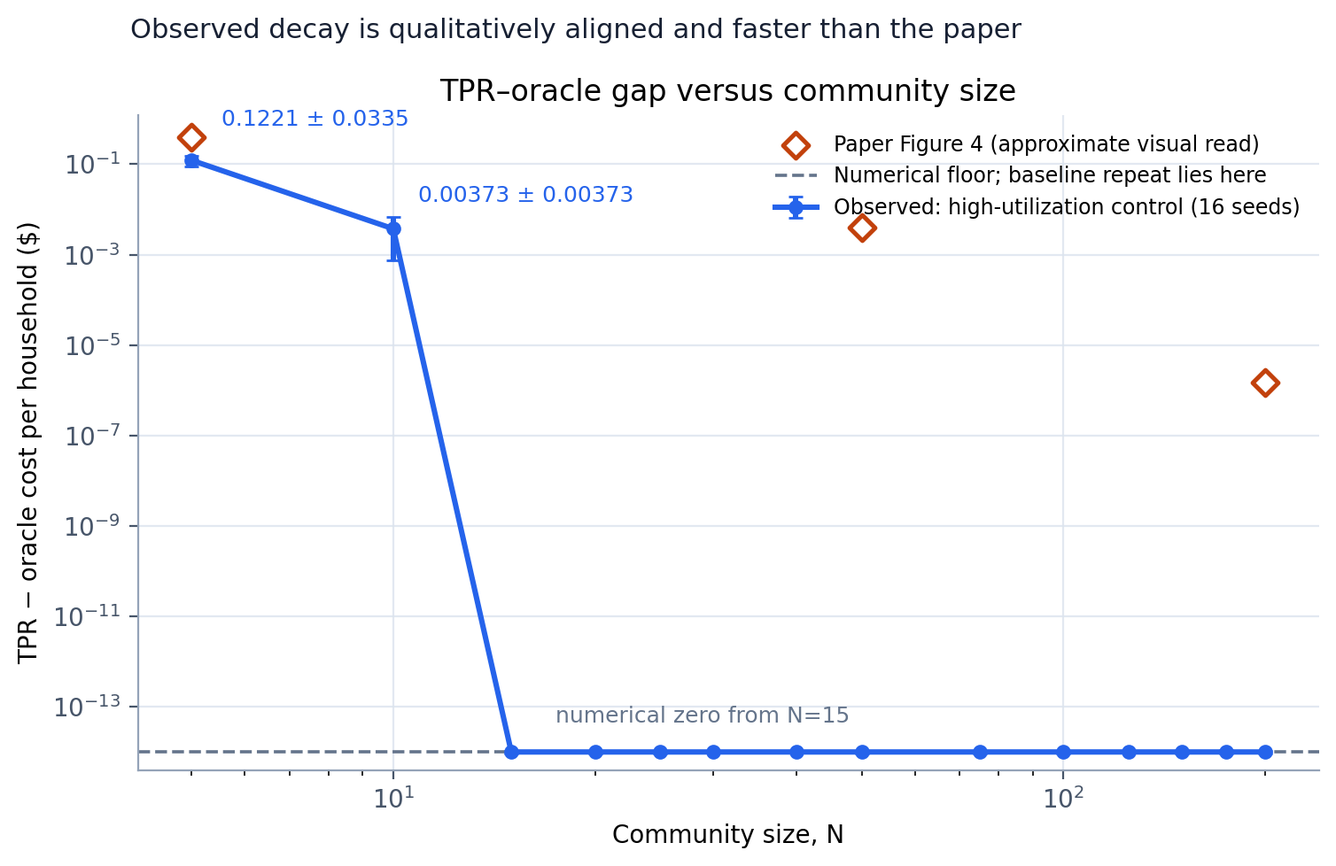
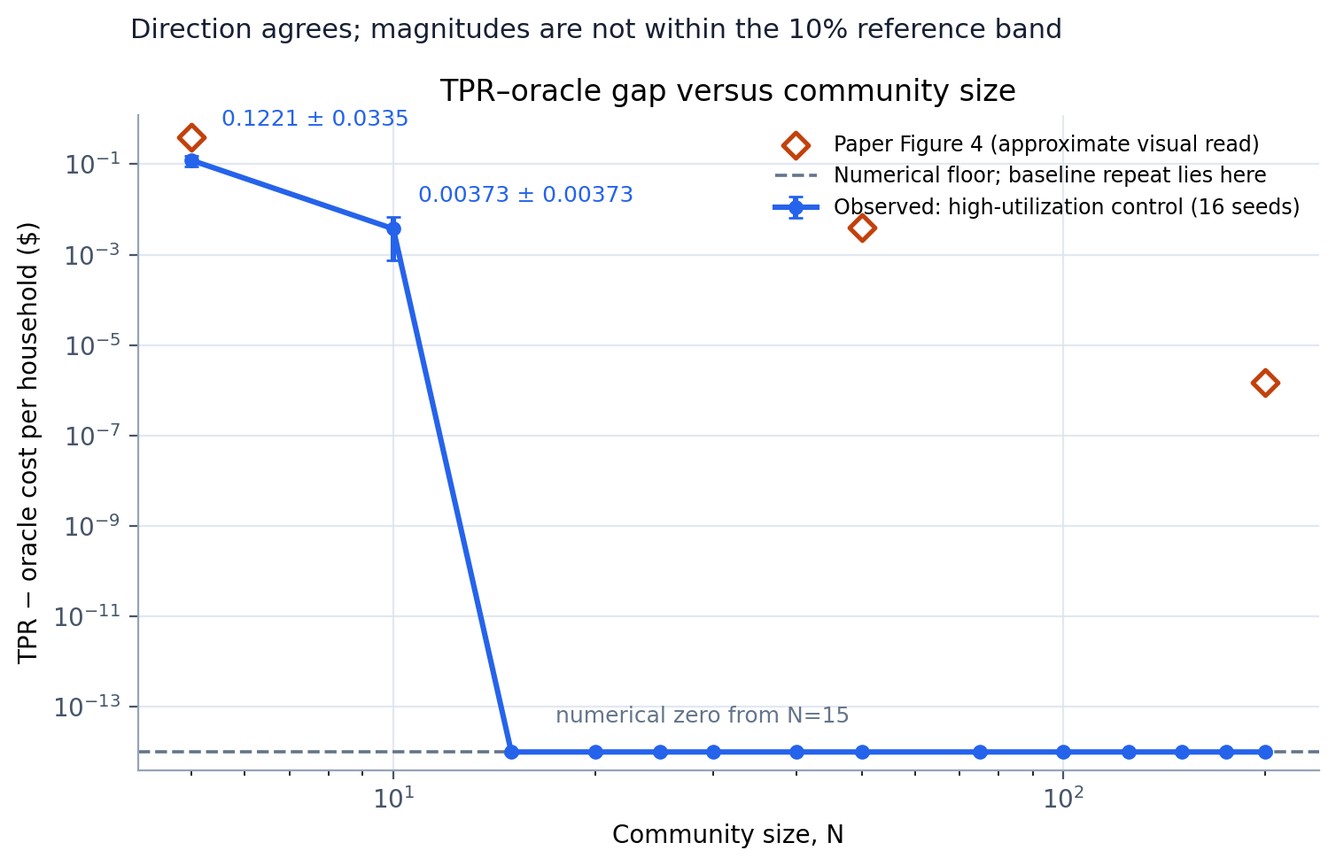
Apply unified reproduction grading rubric

Changed region(s): [[0.0935, 0.0, 0.8103, 0.0613]]

diff --git a/notebooks/tpr_figure4_tutorial.py b/notebooks/tpr_figure4_tutorial.py
@@ -17,12 +17,14 @@ def _(mo):
     mo.md(r"""
     # TPR approaches a perfect-information scheduler as the community grows
 
-    **Reproduction result.** A high-utilization sensitivity control measured a
+    **Unified verdict: C — partial reproduction success, medium confidence.** A high-utilization sensitivity control measured a
     TPR–oracle gap of **$0.1221 ± $0.0335 per household at $N=5$**, **$0.00373 ±
     $0.00373 at $N=10$**, and numerical zero from **$N=15$**. This is
-    qualitatively aligned with Figure 4 of
-    [arXiv:2607.15570](https://www.alphaxiv.org/abs/2607.15570), although the
-    decay is faster under the synthetic EV-demand substitution.
+    decreasing direction consistent with Figure 4 of
+    [arXiv:2607.15570](https://www.alphaxiv.org/abs/2607.15570). However, approximate
+    relative differences from the paper are 69.5% at $N=5$, 98.1% at $N=10$,
+    and nearly 100% at $N=200$, outside the provisional 10% criterion. Only two
+    sizes have nonzero means, so the reported exponential rate is not verified.
 
     This notebook embeds the completed-run summaries. It does **not** rerun the
     remote optimization.
@@ -145,10 +147,10 @@ def _(mo):
 
     | Claim | Assessment | Evidence |
     |---|---|---|
-    | TPR gap shrinks rapidly with community size | **Partially aligned** | Measurable at $N=5$ and $10$; numerical zero from $N=15$ |
+    | TPR gap decreases with community size | **Direction supported only** | Measurable at $N=5$ and $10$; numerical zero from $N=15$ |
     | Revenue adequacy | **Aligned under this setup** | Worst margin $-2.84\times10^{-14}$, within $10^{-10}$ tolerance |
     | Individual rationality | **Aligned under this setup** | Worst saving $-1.42\times10^{-14}$, within tolerance |
-    | Paper's exact exponential rate | **Inconclusive under this setup** | ACN preprocessing and raw Figure 4 values are unavailable |
+    | Paper's magnitudes and exponential rate | **Not verified** | Values differ by far more than 10%; ACN preprocessing and raw Figure 4 values are unavailable |
 
     The formal runs used a 24-hour, 15-minute horizon, 7.2 kW chargers, a
     six-hour maximum charging window, lognormal renewable generation with mean

diff --git a/reports/tpr-figure4/make_figures.py b/reports/tpr-figure4/make_figures.py
@@ -66,7 +66,7 @@ def headline(baseline: list[dict[str, float]], stress: list[dict[str, float]]) -
     ax.set_ylim(4e-15, 1.2)
     ax.legend(frameon=False, fontsize=8.5, loc="upper right")
     style_axis(ax)
-    fig.suptitle("Observed decay is qualitatively aligned and faster than the paper",
+    fig.suptitle("Direction agrees; magnitudes are not within the 10% reference band",
                  x=0.12, ha="left", fontsize=11, color=INK, y=0.995)
     finish(fig, "headline-gap-comparison.png")
 

diff --git a/reports/tpr-figure4/report.md b/reports/tpr-figure4/report.md
@@ -1,113 +1,149 @@
-# When Does Simple Pricing Match a Perfect-Information Scheduler?
+# TPR 分布式调度论文复现：统一判定报告
 
-![Observed TPR–oracle gap compared with approximate visual reads from the paper](images/headline-gap-comparison.png)
+![论文 Figure 4 与本次运行结果的比较](images/headline-gap-comparison.png)
 
-The central question in [arXiv:2607.15570](https://www.alphaxiv.org/abs/2607.15570) is whether a coordinator can schedule flexible household demand with a simple broadcast price while retaining the performance of a centralized scheduler. The paper's Figure 4 reports that the per-household cost gap between its Threshold Pricing Rule (TPR) and a perfect-information oracle decays approximately exponentially as the community grows.
+**最终等级：C — 部分复现成功。结论可信度：中。**
 
-**Assessment: partially aligned.** In the paper-faithful disclosed-parameter setup with synthetic EV demand, TPR and the oracle were already equal to numerical precision for every tested size. A deliberately harder high-utilization control produced a measurable gap of **$0.1221 ± $0.0335 per household at N=5**, **$0.00373 ± $0.00373 at N=10**, and numerical zero from **N=15** onward. The direction and rapid decay align with Figure 4, but the observed decay is faster and cannot establish the paper's quantitative rate because ACN demand preprocessing and plotted values were unavailable.
+本次确实在用户指定的 `root@ssh3.vast.ai:15694` 上执行了提交后的实验代码，并由运行日志产生结果；但“代码运行成功”不等于“论文完整复现成功”。[论文 2607.15570](https://www.alphaxiv.org/abs/2607.15570) 的 Figure 4 方向在一个合成高负载控制中得到部分支持，但数值与论文相差远超 10%，指数衰减率无法验证，LLF/MPC 和 Figure 5 也没有运行。因此不能判为 A 或 B。
 
-## The claim and the scheduling idea
+## 1. 本次实际复现了什么？
 
-Each household has renewable generation and deadline-constrained EV demand. The coordinator sees only aggregate conditions and broadcasts one of three price signals:
+实际运行的是一个独立实现的 Figure 4 子问题：比较在线 Threshold Pricing Rule（TPR）与知道全部未来随机量的开环 Oracle 线性规划，并计算
 
-```text
-aggregate renewable below mandatory charging  → import price π+ → charge only what deadlines require
-aggregate renewable above charging capacity   → export price π− → charge as much as possible
-aggregate renewable between the thresholds    → NEM price       → absorb renewable locally
-```
+$$
+\frac{\mathrm{cost}_{\mathrm{TPR}}-\mathrm{cost}_{\mathrm{Oracle}}}{N}.
+$$
 
-The first two zones have closed-form actions. Only the middle, net-zero zone can separate the online TPR schedule from a scheduler that knows the future. As the number of independent households grows, aggregate uncertainty concentrates and this difficult zone should become less consequential.
+每个随机实例均由本次代码现场生成，TPR 和 Oracle 均在本次运行中求解；报告中的复现数值来自远程运行生成的 CSV 和日志，而不是从论文或 README 复制，也不是把论文公式直接代入得到。
 
-The paper's empirical evidence contains three main groups of claims:
-
-| Paper evidence | Reported result | Reproduction scope |
-|---|---:|---|
-| Figure 4, TPR vs oracle | TPR gap falls from roughly $0.4/household at the smallest plotted community to about $1.5×10⁻⁶ at N=200 (visual read); approximately exponential decay | Tested with disclosed parameters and synthetic EV-demand substitutions |
-| Figure 4, LLF and MPC | Gaps plateau near $10⁻² and $10⁻¹, respectively, as N grows | Not attempted; policy details needed for a faithful implementation |
-| Figure 5, individual savings | TPR improves savings over NEM-exp by 33.74%–67.58% with private solar and 0.38%–3.83% with shared solar | Not attempted; requires Pecan Street profiles, household shares, and preprocessing |
-
-## What was implemented
-
-The experiment uses a 24-hour horizon with 96 fifteen-minute intervals, a 7.2 kW charger, a six-hour maximum charging window, a truncated-Gaussian duration centered at five hours, i.i.d. lognormal renewable generation with mean 1.6 kWh, and NEM prices of $0.50/kWh for imports and $0.20/kWh for exports. These are the parameters disclosed around Figure 4.
-
-For every seed and community size, one generated instance follows two code paths:
+实际完成了四次可追溯 SSH 运行：一个正式合成基线、两次相同提交的全遥测重复，以及一个高负载敏感性控制。使用的核心代码路径是：
 
 ```text
-seeded arrivals + EV jobs + renewables
+随机生成 EV 到达、能量需求和可再生能源
                  │
         ┌────────┴────────┐
         │                 │
-  online TPR schedule   sparse perfect-information LP
-  three price zones     all jobs and renewables known
+  在线三阈值 TPR       完美未来信息 Oracle LP
         │                 │
         └────────┬────────┘
                  │
-      (TPR cost − oracle cost) / N
+      计算每户成本差、协调者余额和住户节省
 ```
 
-The oracle is a sparse linear program whose charging variables are bounded by charger capacity and whose equality constraints enforce every EV's energy demand and each interval's energy balance. The TPR path updates each job's mandatory minimum and feasible maximum charge, then chooses the paper's three-zone action. The experiment also runs each household under stand-alone NEM to check individual savings, and compares household payments with the utility bill to check coordinator revenue adequacy.
-
-The published code is intentionally small: the formal implementation is on the [seeded synthetic scaling branch](https://github.com/S-Discipline/price-based-distributed-scheduling-of-flexible-d/tree/orx/seeded-synthetic-scaling-evaluation), full per-size telemetry is on the [telemetry repeat branch](https://github.com/S-Discipline/price-based-distributed-scheduling-of-flexible-d/tree/orx/baseline-full-telemetry-repeat), and the demand sensitivity is on the [high-utilization control branch](https://github.com/S-Discipline/price-based-distributed-scheduling-of-flexible-d/tree/orx/high-utilization-finite-gap-control).
-
-## The difficult zone disappears quickly
-
-![Fraction of intervals in the net-zero pricing zone](images/mechanism-zero-zone.png)
-
-In the baseline substitution, the net-zero zone occupied 4.56% of intervals at N=4, 0.78% at N=8, and none from N=16 onward. In the higher-utilization control, it fell from 6.45% at N=5 to 1.17% at N=10 and was effectively absent beyond the smallest communities. This diagnostic explains both the paper's expected convergence and why this reproduction hit the numerical floor earlier: the only zone capable of creating a visible online-versus-oracle separation became rare very quickly.
-
-This is mechanism evidence, not an independent proof of the asymptotic theorem. The simulation horizon is finite, the household model is homogeneous, and the result depends on the synthetic demand distribution.
-
-## Finite-size behavior varies across seeds
-
-![Distribution of per-household gaps across seeds at N=5 and N=10](images/robustness-seed-distribution.png)
-
-The high-utilization means do not describe every instance. At N=5, several seeds had exactly zero gap while the largest observed replicate reached $0.4258 per household; the mean was $0.1221 with a standard error of $0.0335. At N=10, fifteen of sixteen seeds were at numerical zero and one retained a visible gap, producing a mean and standard error both equal to $0.00373. This mixture of exact-zero and positive-gap instances is why the control supports rapid qualitative convergence but not a stable fitted exponential rate over many sizes.
-
-## Revenue adequacy and individual rationality remain feasible
-
-![Worst apparent feasibility violations normalized by numerical tolerance](images/diagnostic-guarantees.png)
-
-Across 336 total seeded instances, the worst coordinator margin was −$2.84×10⁻¹⁴ and the worst household saving relative to stand-alone NEM was −$1.42×10⁻¹⁴. Both are floating-point residuals more than three orders of magnitude inside the prespecified $10⁻¹⁰ numerical tolerance. Under these setups, the observed evidence is aligned with the paper's revenue-adequacy and individual-rationality guarantees.
-
-These diagnostics check realized simulated trajectories. They do not replace the paper's analytical guarantees over the full model class.
-
-## Claim-by-claim assessment
-
-| Claim | Paper result | Observed result | Assessment | Compute |
-|---|---|---|---|---:|
-| Figure 4: TPR approaches the oracle as N grows | Approximately exponential; visually ≈$0.4 at the smallest N and ≈$1.5×10⁻⁶ at N=200 | Baseline: ≤$2.9×10⁻¹⁵ mean at every N, confirmed by an identical rerun. High-utilization control: $0.1221 at N=5, $0.00373 at N=10, numerical zero from N=15 | **Partially aligned** — same direction, faster floor; quantitative rate unresolved | 21 s formal + 11 s telemetry + 8 s confirmation + 16 s control |
-| Revenue adequacy | Coordinator payment balance is nonnegative | Minimum margin −$2.84×10⁻¹⁴ | **Aligned under this setup** — within $10⁻¹⁰ tolerance | Included above |
-| Individual rationality | Every member is no worse off than under stand-alone NEM | Minimum saving −$1.42×10⁻¹⁴ baseline; $0 in control | **Aligned under this setup** — within tolerance | Included above |
-| LLF and MPC gaps persist | LLF near $10⁻² and MPC near $10⁻¹ at large N | Not measured | **Not attempted** | — |
-| Figure 5 savings ranges | 33.74%–67.58% private solar; 0.38%–3.83% shared solar | Not measured | **Not attempted** | — |
-
-The four successful SSH runs consumed **56 seconds of remote wall time** in total. They executed on `root@ssh3.vast.ai:15694`, verified as a host with two RTX 3090 GPUs. The latest confirmation used the caller-specified `StrictHostKeyChecking=accept-new` and `UserKnownHostsFile=/dev/null` options through the tracked OpenResearch SSH alias. The workload is CPU-bound sparse optimization, so GPU utilization is not a meaningful cost measure; forcing GPU work would not add evidence.
-
-## Substitutions and limits
-
-The decisive substitution is EV demand. The paper names ACN-Data but does not publish its preprocessing, random seeds, truncated-Gaussian standard deviation, or Figure 4 point values. The baseline therefore samples each job at 35%–85% of its feasible charging envelope; the sensitivity control uses 85%–100%. Both use 16 deterministic seeds per community size. The paper reference points in the headline chart are approximate visual reads and are deliberately shown as unconnected markers.
-
-The reproduced TPR uses the disclosed threshold structure, but it is a compact independent implementation rather than the authors' code. A full-scale reproduction would still need:
-
-- the exact ACN session filtering and conversion from sessions to EV energy/deadline pairs;
-- the authors' random seeds and all Figure 4 community sizes or raw plotted values;
-- faithful LLF and MPC definitions, including forecast construction and MPC horizon;
-- Pecan Street solar preprocessing and shared-solar allocations for Figure 5;
-- additional seeds around N=5–15, where the finite-size gap is a zero-inflated random variable.
-
-## Reproduce or explore the evidence
-
-The fixed formal command for every experiment node is:
+正式运行命令固定为：
 
 ```bash
 python3 -m pip install --disable-pip-version-check -r requirements.txt && python3 reproduce.py
 ```
 
-The self-contained [marimo tutorial](../../notebooks/tpr_figure4_tutorial.py) embeds the observed summary values and redraws the central evidence without rerunning the remote optimization. Because the repository is private, run it locally with:
+## 2. 哪些内容没有复现？
 
-```bash
-uvx marimo edit notebooks/tpr_figure4_tutorial.py
-uvx marimo run notebooks/tpr_figure4_tutorial.py
-```
+- 没有使用论文的 Caltech ACN-Data EV 需求；论文未给出筛选、清洗和从会话到能量/截止期变量的完整转换方法。
+- 没有实现 Figure 4 的 least-laxity-first（LLF）和 model predictive control（MPC），因此没有验证“TPR 优于 LLF/MPC，且后两者差距不消失”。
+- 没有复现 Figure 5 的 NEM-exp、Pecan Street 私有屋顶光伏和共享社区光伏，也没有验证论文报告的 33.74%–67.58% 与 0.38%–3.83% 节省区间。
+- 没有复现作者的随机种子、样本数量、软件版本、线程配置或原始 Figure 4 数据点；论文没有公开这些信息。
+- 没有验证论文的完整理论证明。收入充足性和个体理性只在有限的合成轨迹上做了数值检查。
 
-The exact plotted inputs are preserved in [`data/`](data/), and the four figures can be regenerated with `uv run --with matplotlib --with numpy python reports/tpr-figure4/make_figures.py`.
+## 3. 每个核心结论是否得到支持？
+
+| 核心结论 | 论文结论 | 本次运行证据 | 方向 | 数值 | 判定 |
+|---|---|---|---|---|---|
+| TPR–Oracle 差距随社区规模下降 | Figure 4 呈近似指数下降 | 高负载控制从 N=5 的 $0.1221 降至 N=10 的 $0.00373，N≥15 为数值零 | **一致** | **不接近** | 部分支持 |
+| 下降近似指数规律 | 多个规模点在对数坐标近似直线 | 只有 N=5、10 两个非零均值，其余点落在浮点噪声层 | 无足够点判断 | 不接近 | **未验证** |
+| TPR 优于 LLF 和 MPC | TPR 趋零，LLF/MPC 保持非零差距 | LLF/MPC 未运行 | 无法判断 | 无法比较 | **未复现** |
+| 收入充足性 | 协调者每时段余额非负 | 最小余额 −$2.84×10⁻¹⁴，在 $10⁻¹⁰ 容差内 | 一致 | 论文未给经验数值 | 合成条件下支持 |
+| 个体理性 | 每个成员不劣于独立 NEM | 最小住户节省 −$1.42×10⁻¹⁴，在容差内 | 一致 | 论文未给对应轨迹数值 | 合成条件下支持 |
+| Figure 5 中 TPR 优于 NEM-exp | 私有光伏提升 33.74%–67.58%；共享光伏提升 0.38%–3.83% | NEM-exp 和 Pecan Street 数据均未运行 | 无法判断 | 无法比较 | **未复现** |
+
+收入充足性和个体理性的有限样本结果如下。它们是有效的运行证据，但不能替代理论命题对全部模型实例的保证。
+
+![收入充足性与个体理性数值诊断](images/diagnostic-guarantees.png)
+
+## 4. 论文结果与复现结果相差多少？
+
+论文未给出 Figure 4 原始数值、方差或置信区间。以下论文数值是从图中读取的近似值，因此采用用户指定的“相对差异 10%”作为临时参考，而不是把近似读数当成精确 ground truth。
+
+| 社区规模 | 论文 Figure 4 TPR（视觉近似） | 本次高负载控制均值 ± SEM | 近似相对差异 | 10% 标准 |
+|---:|---:|---:|---:|---|
+| 5 | $0.40 | $0.1221 ± $0.0335 | 69.5% | 不满足 |
+| 10 | $0.20 | $0.00373 ± $0.00373 | 98.1% | 不满足 |
+| 200 | $1.5×10⁻⁶ | $2.27×10⁻¹⁵（数值噪声） | 约 100% | 不满足 |
+
+从 N=5 到 N=10，论文曲线视觉上约下降 50%，本次控制下降约 96.9%。因此只能说“下降方向一致”，不能说“数值或衰减规律复现”。基线合成需求在所有规模上直接达到数值零，也不能用于估计论文报告的指数斜率。
+
+种子间分布显示本次有限规模结果高度零膨胀：N=5 时部分种子为零、最大单次差距为 $0.4258；N=10 时 16 个种子中只有一个保留明显非零差距。
+
+![N=5 与 N=10 的种子间差异](images/robustness-seed-distribution.png)
+
+## 5. 实验条件是否一致？
+
+| 条件 | 论文 | 本次复现 | 一致性及可能影响 |
+|---|---|---|---|
+| EV 数据 | Caltech ACN-Data | 合成截断持续时间与能量利用率 | **不一致；最关键差异。** 直接改变负荷强度、截止期压力和 TPR 进入困难区间的概率 |
+| 可再生能源 | i.i.d. 对数正态，均值 1.6 kWh | 同分布族和均值，σ=0.7 | 部分一致；论文未公开 σ，方差不同会改变聚合集中速度 |
+| 时间范围 | 24 h，15 min 间隔 | 24 h，96×15 min | 一致 |
+| 充电器 | 7.2 kW | 7.2 kW | 一致 |
+| 充电窗口 | 截断高斯均值 5 h，最大 6 h | 均值 5 h、最大 6 h、标准差 1 h | 部分一致；论文未公开标准差 |
+| 到达率 | α=1.6/(最大充电功率×6 h) | 使用相同边界到达率 | 一致 |
+| NEM 费率 | $0.50/$0.20 per kWh | $0.50/$0.20 per kWh | 一致 |
+| 社区规模 | Figure 4 约 N=5…200 | 控制采用图示网格；基线为 N=4…256 | 控制大致一致，基线不同 |
+| 对比算法 | TPR、Oracle、LLF、MPC | TPR、Oracle；另做独立 NEM 诊断 | **不完整；无法验证相对 LLF/MPC 的核心比较** |
+| 随机重复 | 未公开 | 每个 N 16 个确定性种子 | 无法判断统计等价性 |
+| 实现 | 作者实现未公开 | 独立 Python/Scipy 实现 | 可能存在调度细节、边界处理或目标函数差异 |
+| 软件版本 | 未公开 | Python 3.12.3、NumPy 2.2.6、SciPy 1.15.3、Matplotlib 3.10.3 | 无法匹配，但对主要差异的影响预计小于数据与算法缺失 |
+| 硬件/线程 | 未公开 | 用户 SSH 主机，2×RTX 3090；LP 实际为 CPU 工作负载，线程数未固定 | 无法匹配；主要影响耗时，通常不应造成数量级指标差异 |
+
+困难的净零定价区间在本次合成数据中消失得过快：基线从 N=4 的 4.56% 降至 N=16 的 0；高负载控制从 N=5 的 6.45% 降至 N=10 的 1.17%，随后接近零。这很可能解释了复现曲线比论文快得多地触底。
+
+![净零定价区间随规模的变化](images/mechanism-zero-zone.png)
+
+## 6. 实验真实性检查
+
+真实性检查通过：
+
+- 结果来自本次远程运行生成的逐实例 CSV；正式基线包含 112 个实例，高负载控制包含 224 个实例。
+- 两次相同提交的全遥测运行得到完全一致的随机结果，只存在毫秒级运行时间差异。
+- 高负载控制的 224 个实例中有 12 个差距大于 $10⁻¹⁰，最大差距为 $0.4258；这些数值来自实际 LP 与 TPR 调度结果，不是从论文抄录。
+- 图中的橙色论文点与蓝色复现点明确分离；橙色点仅用于近似比较，不参与生成复现指标。
+
+## 7. 差异可能来自哪里？
+
+按影响可能性排序：
+
+1. **ACN-Data 被合成 EV 能量替换。** 这是最可能导致复现过早达到零差距的原因。
+2. **论文未公开对数正态 σ 和截断高斯标准差。** 聚合波动和截止期压力对指数收敛曲线非常敏感。
+3. **独立实现而非作者代码。** 零区间价格响应、多个任务的边界处理和 Oracle 约束可能与作者实现不同。
+4. **缺少 LLF/MPC。** 无法确认 TPR 的相对优势是否来自算法本身或当前实例过于容易。
+5. **种子和样本量不同。** N=5、10 的零膨胀分布表明均值对种子非常敏感。
+6. **线程和数值求解器配置未对齐。** 可能影响最后几位和耗时，但不足以解释 69%–100% 的差异。
+
+## 8. 最终等级、结论与可信度
+
+- **最终等级：C — 部分复现成功。**
+- **最终结论：部分成功，不是完整复现成功，也不是缩小规模复现成功。**
+- **结论可信度：中。**
+
+选择 C 的原因是：代码和多个真实实验均完成；TPR–Oracle 差距下降的方向以及收入充足性、个体理性的有限样本诊断得到支持。但 Figure 4 数值远超 10% 差异阈值，指数规律没有足够非零点验证，两类重要基线和 Figure 5 完全未复现，且关键数据集不一致。
+
+没有判为 D，是因为本次存在有效的 Oracle ground truth、随机重复和真实的参数趋势比较，能对部分论文结论作出实验判断。没有判为 E，是因为未观察到与论文主要方向明确相反的结果；问题是条件不一致、数值偏离和覆盖不完整，而不是运行无效。
+
+## 9. 下一步怎样提高复现等级？
+
+要从 C 提升到 B 或 A，优先级如下：
+
+1. 获取作者的 ACN 会话筛选、能量/截止期构造、对数正态 σ、截断高斯标准差、随机种子和 Figure 4 原始数据。
+2. 在完全相同的 N 网格上至少运行 30–50 个种子，报告均值、标准差/置信区间，并重点加密 N=5–30。
+3. 实现并验证论文定义的 LLF 和 MPC，包括 MPC 预测数据、滚动窗口和终端约束；比较相同实例上的三种方法。
+4. 用相同数据逐点检查 TPR 与 Oracle 的目标函数、约束和边界条件，最好与作者代码或少量作者输出进行单元级对照。
+5. 获取 Pecan Street 数据处理和共享光伏份额，运行 NEM-exp，复现 Figure 5 的每成员节省范围。
+6. 固定并记录 CPU 型号、线程数、BLAS/HiGHS 配置和全部软件版本；硬件主要用于可重复耗时，不应替代结果一致性判断。
+
+若完整数据仍不可得，最高合理目标是 B：在明确标注的缩小/替代条件下，同时复现 TPR、LLF、MPC 的排序关系和随 N 变化趋势，并让可比较指标落入论文误差区间或暂定 10% 范围。
+
+## 代码、数据与实验分支
+
+- [正式合成基线](https://github.com/S-Discipline/price-based-distributed-scheduling-of-flexible-d/tree/orx/seeded-synthetic-scaling-evaluation)
+- [全遥测重复](https://github.com/S-Discipline/price-based-distributed-scheduling-of-flexible-d/tree/orx/baseline-full-telemetry-repeat)
+- [高负载控制](https://github.com/S-Discipline/price-based-distributed-scheduling-of-flexible-d/tree/orx/high-utilization-finite-gap-control)
+- [自包含 marimo 教程](../../notebooks/tpr_figure4_tutorial.py)
+- 逐实例数据保存在 [`data/`](data/)，图表由 `make_figures.py` 从这些实际运行数据重建。

diff --git a/README.md b/README.md
@@ -2,7 +2,7 @@
 
 This repository tests the main illustrative claim in [Price-Based Distributed Scheduling of Flexible Demands in Energy Communities (arXiv:2607.15570)](https://www.alphaxiv.org/abs/2607.15570): the Threshold Pricing Rule's community cost per household approaches a perfect-information oracle as community size grows.
 
-**Assessment: partially aligned.** The disclosed-parameter baseline reached the numerical zero-gap floor at every tested size. A harder synthetic-demand control measured **$0.1221 ± $0.0335 per household at N=5**, **$0.00373 ± $0.00373 at N=10**, and numerical zero from **N=15** onward. The paper's Figure 4 falls from roughly **$0.4** at its smallest community to about **$1.5×10⁻⁶ at N=200** by visual read. The direction and rapid convergence align; the observed decay is faster, and the exact paper rate remains inconclusive without the authors' ACN preprocessing and raw plot data.
+**Unified verdict: C — partial reproduction success (medium confidence), not a complete reproduction.** The disclosed-parameter baseline reached the numerical zero-gap floor at every tested size. A harder synthetic-demand control measured **$0.1221 ± $0.0335 per household at N=5**, **$0.00373 ± $0.00373 at N=10**, and numerical zero from **N=15** onward. Against approximate visual reads of **$0.40**, **$0.20**, and **$1.5×10⁻⁶** from the paper at N=5, 10, and 200, the relative differences are approximately **69.5%**, **98.1%**, and **≈100%**—well outside the provisional 10% closeness criterion. The decreasing direction is supported under a synthetic control, but the paper's magnitude and exponential rate are not.
 
 We preserved the paper's 24-hour/15-minute horizon, 7.2 kW charger, six-hour maximum charging window, five-hour mean truncated-Gaussian duration, lognormal renewable mean of 1.6 kWh, boundary arrival rate, and NEM prices of $0.50/$0.20 per kWh. We substituted seeded synthetic EV energy because ACN session filtering and preprocessing are not disclosed. Formal runs executed on `root@ssh3.vast.ai:15694`, verified with two RTX 3090 GPUs; the sparse-optimization workload itself is CPU-bound.
 
@@ -19,4 +19,4 @@ We preserved the paper's 24-hour/15-minute horizon, 7.2 kW charger, six-hour max
 | [`orx/baseline-full-telemetry-repeat`](https://github.com/S-Discipline/price-based-distributed-scheduling-of-flexible-d/tree/orx/baseline-full-telemetry-repeat) | Instrumentation-only repeat that logs every per-size result | `python3 -m pip install --disable-pip-version-check -r requirements.txt && python3 reproduce.py` | Two identical seeded evaluations confirmed ≤$2.9×10⁻¹⁵ mean gaps and net-zero-zone disappearance | SSH RTX 3090 host, 11 s initial + 8 s confirmation |
 | [`orx/high-utilization-finite-gap-control`](https://github.com/S-Discipline/price-based-distributed-scheduling-of-flexible-d/tree/orx/high-utilization-finite-gap-control) | Sensitivity control using 85%–100% of each EV charging envelope | `python3 -m pip install --disable-pip-version-check -r requirements.txt && python3 reproduce.py` | Rapid finite-size decay: $0.1221 → $0.00373 → numerical zero | SSH RTX 3090 host, 16 s |
 
-The detailed report separates paper evidence, observed evidence, substitutions, unattempted claims, compute cost, and the remaining requirements for a full-data reproduction.
+The detailed report applies the A–F reproduction rubric claim by claim, separates paper evidence from run-derived evidence, lists every material condition mismatch, and explains what is required to improve the grade.
